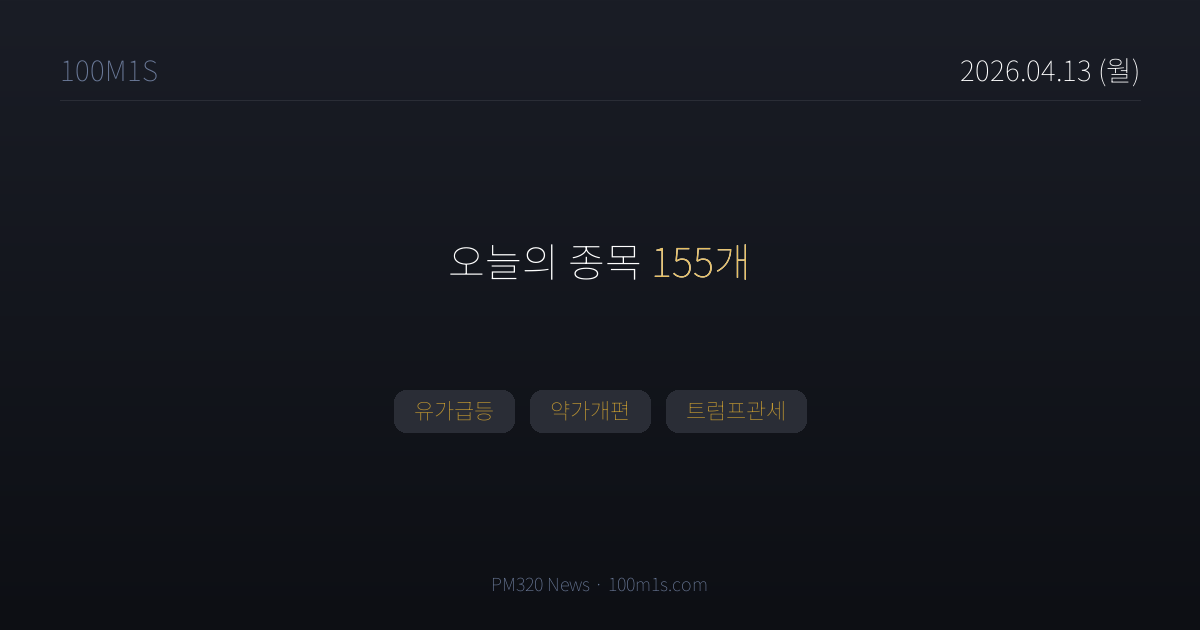
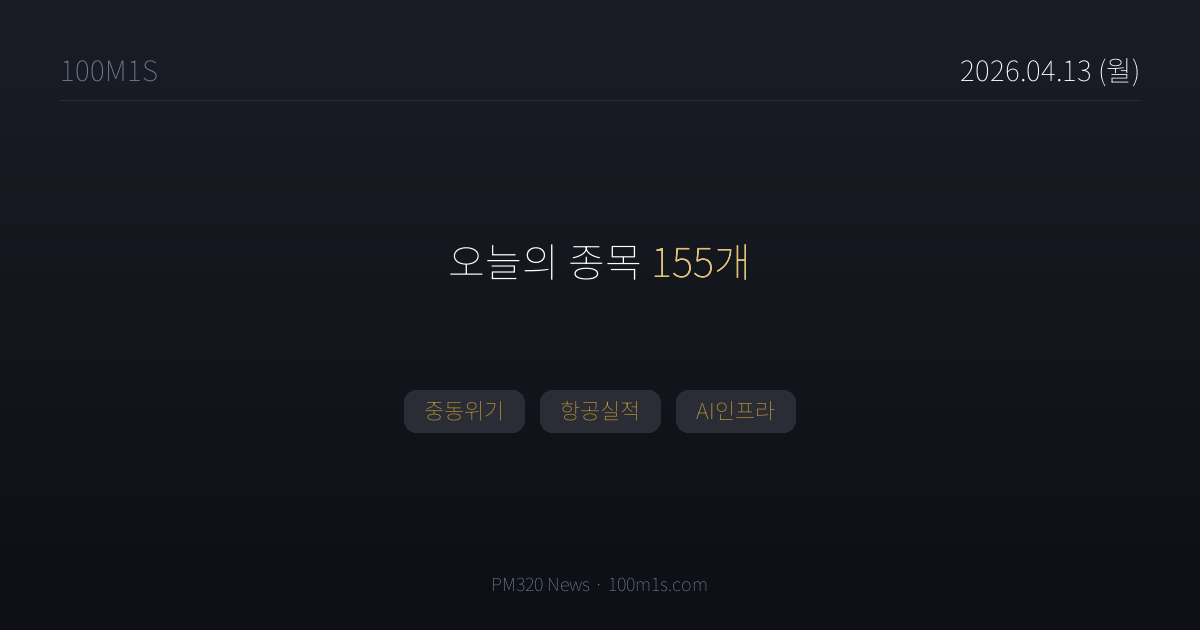
chore(news): 2026-04-13T18:14 pipeline

Changed region(s): [[0.3083, 0.6032, 0.6783, 0.6937]]

diff --git a/news/2026-04-13.html b/news/2026-04-13.html
@@ -4,7 +4,7 @@
 <meta charset="UTF-8">
 <title>4월 13일 (월) 뉴스 — 100M1S</title>
 <meta property="og:title" content="4월 13일 (월) · 종목 155개">
-<meta property="og:description" content="유가급등, 약가개편, 트럼프관세">
+<meta property="og:description" content="중동위기, 항공실적, AI인프라">
 <meta property="og:image" content="https://100m1s.com/og/2026-04-13.png">
 <meta property="og:image:width" content="1200">
 <meta property="og:image:height" content="630">
